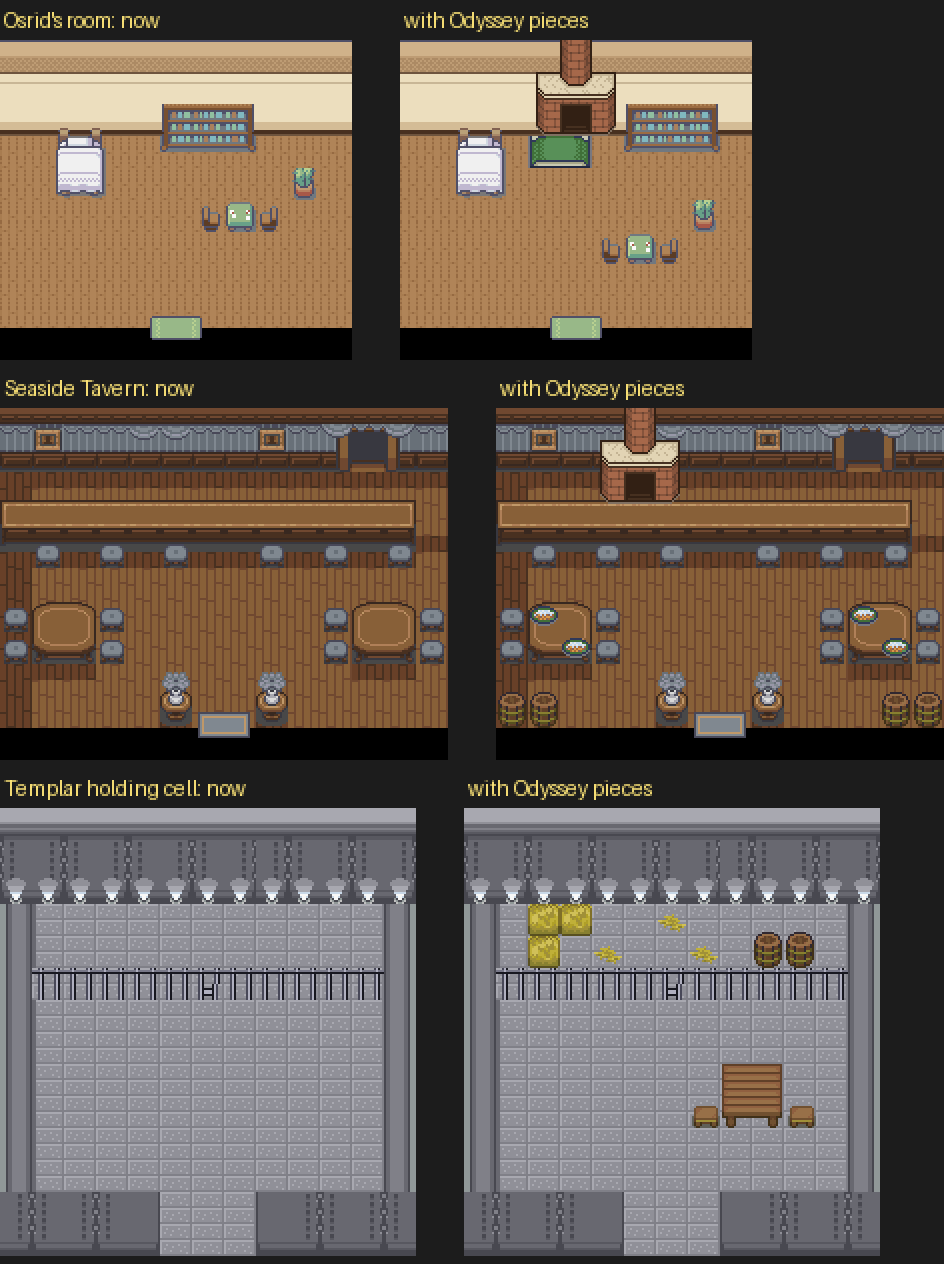
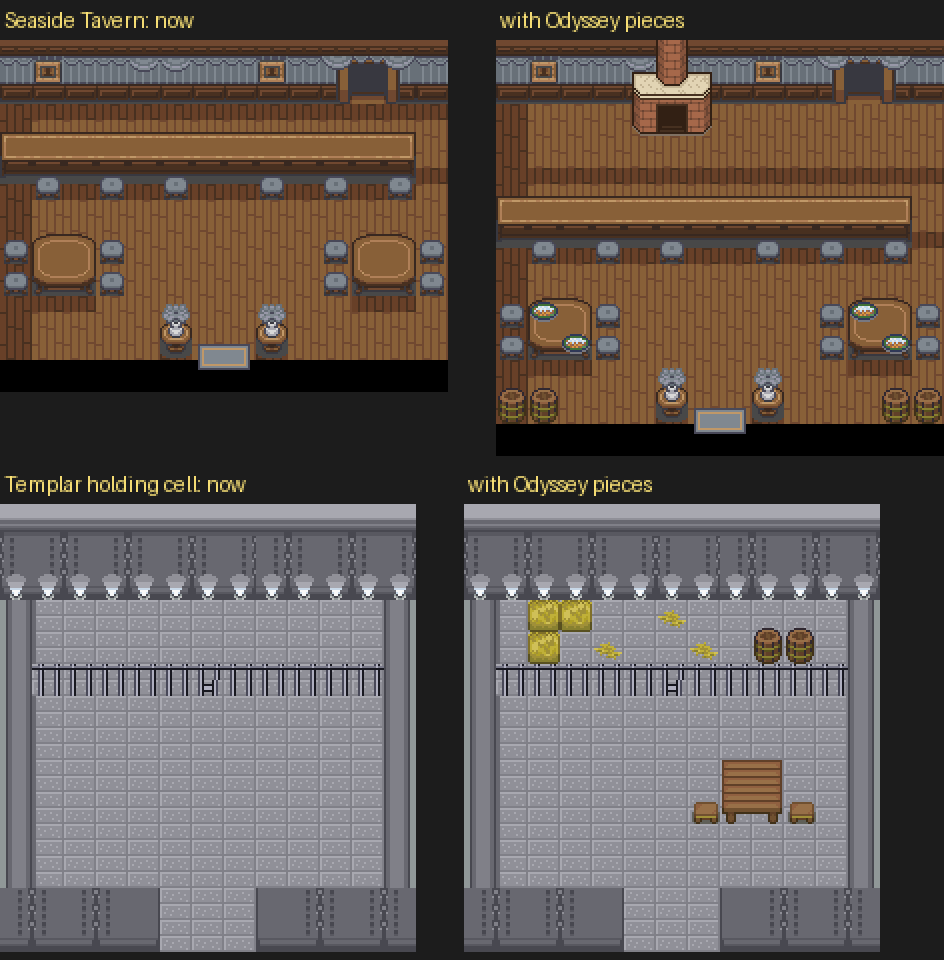
Tavern mockup: two floor rows behind the bar for the hearth; Osrid room keeps no hearth
User: the hearth was misaligned in Osrid's room (dropped there) and would suit
the tavern if the space behind the bar were less tight. Two plain floor rows
are inserted under the back wall; the bar and everything below move down two.

Claude-Session: https://claude.ai/code/session_01FHXnfqnedTHLf5QFbB3MCU

diff --git a/tools/odyssey/pelluca_odyssey_mock.py b/tools/odyssey/pelluca_odyssey_mock.py
@@ -27,11 +27,14 @@ def hearth(img, x0, y0):
         for dx in range(3):
             rgb, m = CM.hearth_piece(dx, dy); blk = img[(y0 + dy) * 16:(y0 + dy) * 16 + 16, (x0 + dx) * 16:(x0 + dx) * 16 + 16]; blk[m] = rgb[m]
 
-def tavern():
-    a = ours('LAYOUT_PELLUCA_TAVERN'); b = a.copy()
-    hearth(b, 3, 0)                                     # cooking fire behind the bar
-    for x, y in ((1, 6), (2, 7), (11, 6), (12, 7)): put(b, x, y, 'F', 712)   # plates on the round tables
-    for x in (0, 1, 12, 13): put(b, x, 8, 'R', 648); put(b, x, 9, 'R', 656)   # barrels in the front corners
+EXTRA = 2                                               # floor rows added behind the bar (user: "really tight")
+def tavern(hx=4):
+    a = ours('LAYOUT_PELLUCA_TAVERN')
+    floor = a[5 * 16:6 * 16]                            # a plain floor row (row 5) for the new space
+    b = np.vstack([a[:2 * 16]] + [floor] * EXTRA + [a[2 * 16:]])   # under the wall; row 2 carries the bar's back edge
+    hearth(b, hx, 0)                                    # the cooking hearth, standing on the floor behind the bar
+    for x, y in ((1, 6), (2, 7), (11, 6), (12, 7)): put(b, x, y + EXTRA, 'F', 712)   # plates on the round tables
+    for x in (0, 1, 12, 13): put(b, x, 8 + EXTRA, 'R', 648); put(b, x, 9 + EXTRA, 'R', 656)   # barrels, front corners
     return a, b
 
 def cell():
@@ -67,10 +70,10 @@ def osrid_room():
     return a, b
 
 if __name__ == '__main__':
-    rows = [("Osrid's room", *osrid_room()), ('Seaside Tavern', *tavern()), ('Templar holding cell', *cell())]
-    W = max(a.shape[1] * 2 + 24 for _, a, _ in rows); H = sum(a.shape[0] + 24 for _, a, _ in rows)
+    rows = [('Seaside Tavern', *tavern()), ('Templar holding cell', *cell())]
+    W = max(a.shape[1] + b.shape[1] + 24 for _, a, b in rows); H = sum(max(a.shape[0], b.shape[0]) + 24 for _, a, b in rows)
     S = Image.new('RGB', (W, H), (28, 28, 28)); d = ImageDraw.Draw(S); y = 0
     for name, a, b in rows:
         d.text((2, y + 4), f'{name}: now', fill=(255, 230, 120)); d.text((a.shape[1] + 26, y + 4), 'with Odyssey pieces', fill=(255, 230, 120))
-        S.paste(Image.fromarray(a), (0, y + 20)); S.paste(Image.fromarray(b), (a.shape[1] + 24, y + 20)); y += a.shape[0] + 24
+        S.paste(Image.fromarray(a), (0, y + 20)); S.paste(Image.fromarray(b), (a.shape[1] + 24, y + 20)); y += max(a.shape[0], b.shape[0]) + 24
     S.resize((S.width * 2, S.height * 2), Image.NEAREST).save('/tmp/pelluca_odyssey_mock.png'); print(S.size)
